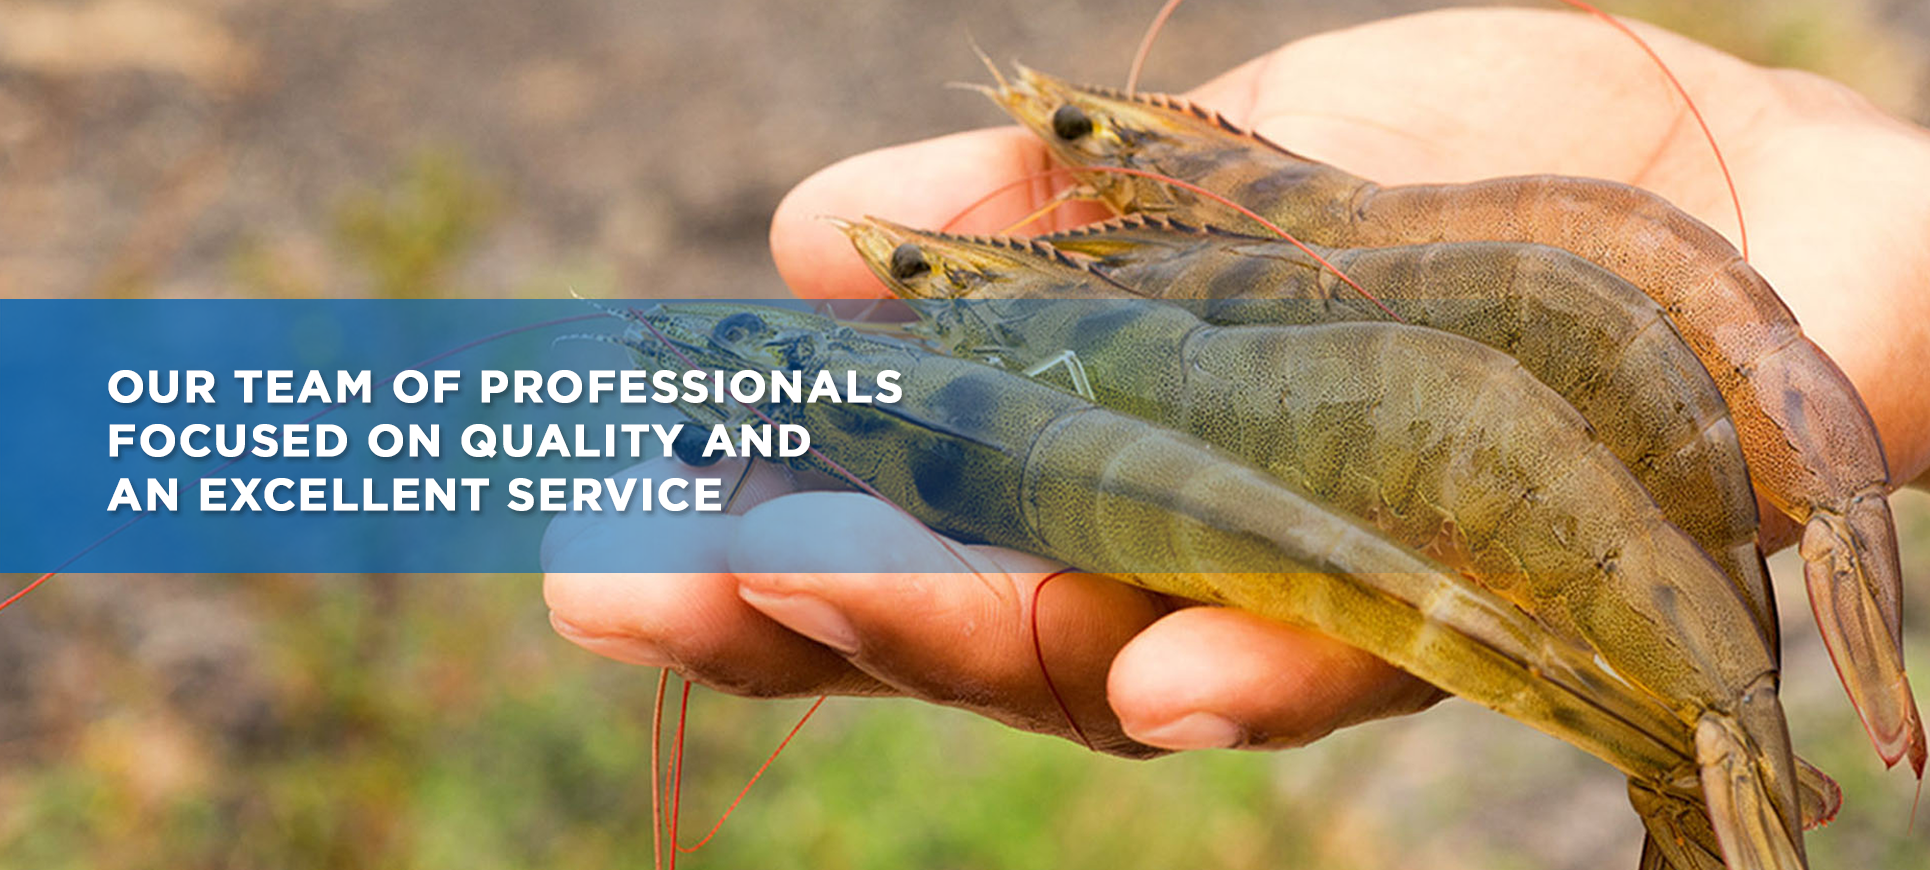
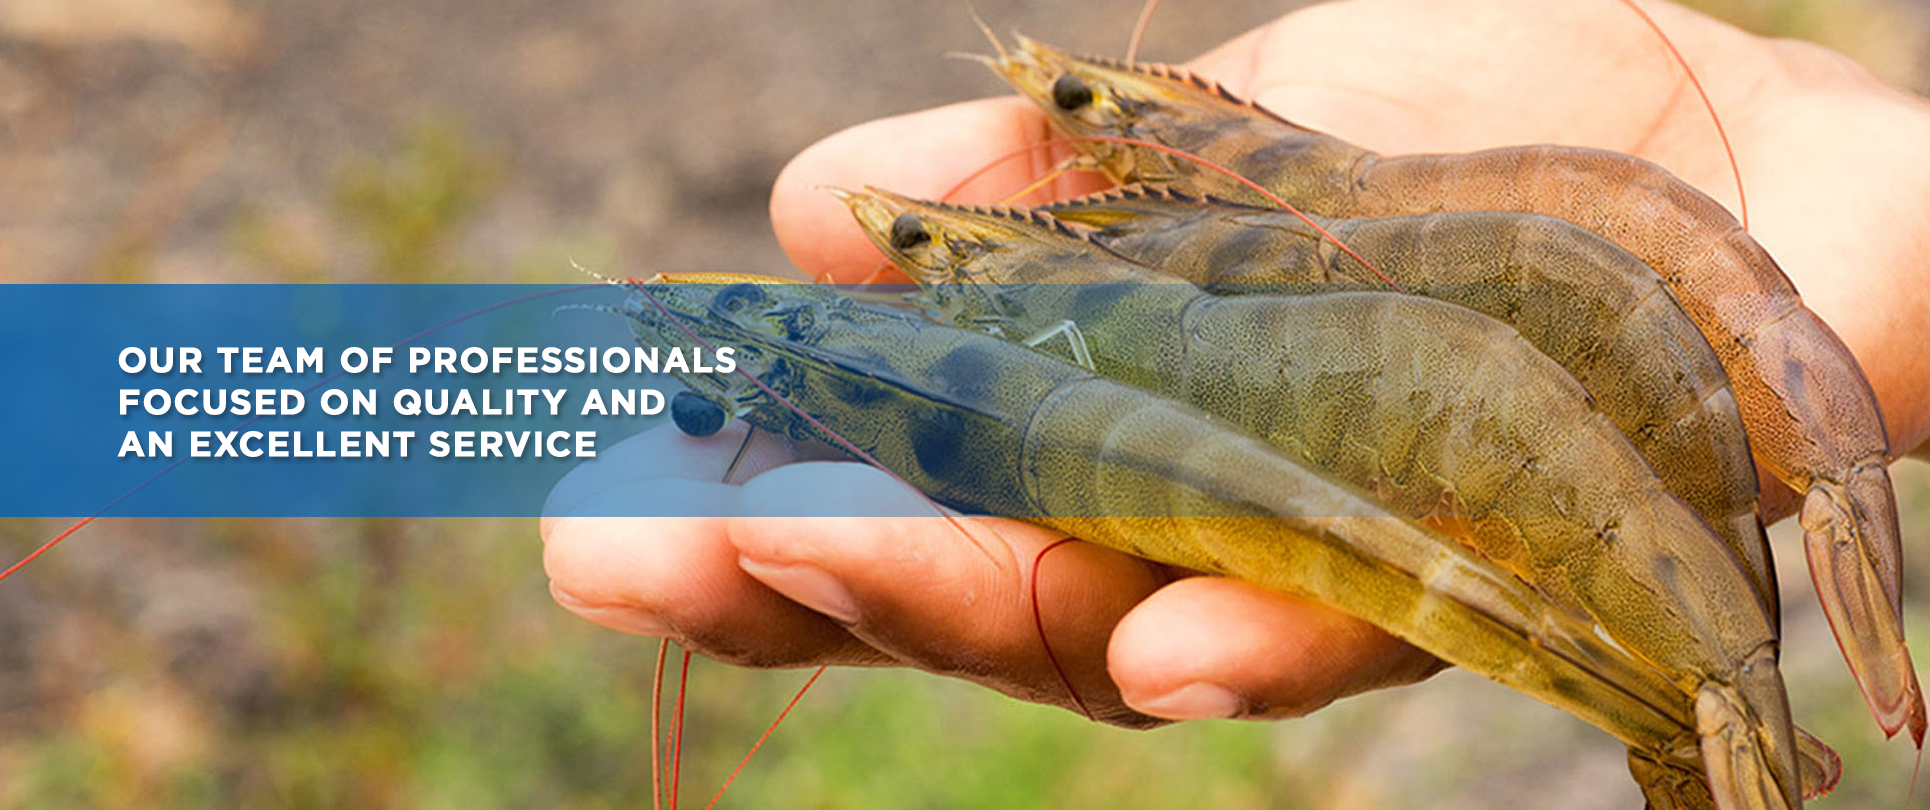
cambios

diff --git a/Camaron/templates/acerca.html b/Camaron/templates/acerca.html
@@ -66,11 +66,11 @@
         Franja no se necesita aca -->
     </div>
     <button class="carousel-control-prev" type="button" data-bs-target="#carouselExampleInterval" data-bs-slide="prev">
-        <span class="carousel-control-prev-icon" aria-hidden="true"><-</span>
+        <span class="carousel-control-prev-icon" aria-hidden="true"><img src="{% static 'rsc\img\ICONOS ALIMESA-24.png' %}"></span>
         <span class="visually-hidden">Previous</span>
     </button>
     <button class="carousel-control-next" type="button" data-bs-target="#carouselExampleInterval" data-bs-slide="next">
-        <span class="carousel-control-next-icon" aria-hidden="true">-></span>
+        <span class="carousel-control-next-icon" aria-hidden="true"><img src="{% static 'rsc\img\ICONOS ALIMESA-24.png' %}"></span>
         <span class="visually-hidden">Next</span>
     </button>
 </div>
@@ -86,6 +86,7 @@
         <div class="CartaIconoCdV">
             <div class="IconoCartaCdV">
                 <img src="{% static 'rsc\img\harvest.png' %}">
+                <img id="flecha" src="{% static 'rsc\img\FLECHA_CADENA_DE_VALOR.png' %}">         
             </div>
             <div class="TxtCartaCdV">
                 <p>Cosecha/Pesca</p>
@@ -94,6 +95,7 @@
         <div class="CartaIconoCdV">
             <div class="IconoCartaCdV">
                 <img src="{% static 'rsc\img\TruckIco.png' %}">
+                <img id="flecha" src="{% static 'rsc\img\FLECHA_CADENA_DE_VALOR.png' %}">
             </div>
             <div class="TxtCartaCdV">
                 <p>Logística</p>
@@ -102,6 +104,7 @@
         <div class="CartaIconoCdV">
             <div class="IconoCartaCdV">
                 <img src="{% static 'rsc\img\quality.png' %}">
+                <img id="flecha" src="{% static 'rsc\img\FLECHA_CADENA_DE_VALOR.png' %}">
             </div>
             <div class="TxtCartaCdV">
                 <p>Recepción y<br>control de calidad</p>
@@ -110,6 +113,7 @@
         <div class="CartaIconoCdV">
             <div class="IconoCartaCdV">
                 <img src="{% static 'rsc\img\PlantaIco.png' %}">
+                <img id="flecha" src="{% static 'rsc\img\FLECHA_CADENA_DE_VALOR.png' %}">
             </div>
             <div class="TxtCartaCdV">
                 <p>Clasificación<br>y empaque</p>
@@ -118,6 +122,7 @@
         <div class="CartaIconoCdV">
             <div class="IconoCartaCdV">
                 <img src="{% static 'rsc\img\ContainerIco.png' %}">
+                <img id="flecha" src="{% static 'rsc\img\FLECHA_CADENA_DE_VALOR.png' %}">
             </div>
             <div class="TxtCartaCdV">
                 <p>Logística</p>
@@ -126,6 +131,7 @@
         <div class="CartaIconoCdV">
             <div class="IconoCartaCdV">
                 <img src="{% static 'rsc\img\BuqueIco.png' %}">
+                <img id="flecha" src="{% static 'rsc\img\FLECHA_CADENA_DE_VALOR.png' %}">
             </div>
             <div class="TxtCartaCdV">
                 <p>Exportación</p>
@@ -133,7 +139,7 @@
         </div>
         <div class="CartaIconoCdV">
             <div class="IconoCartaCdV">
-                <img src="{% static 'rsc\img\costumer.png' %}">
+                <img src="{% static 'rsc\img\costumer.png' %}">                
             </div>
             <div class="TxtCartaCdV">
                 <p>Destino</p>
@@ -152,19 +158,19 @@
                 <b>AMÉRICA</b>
             </div>
             <div class="paisesMercado" id="paises_America">
-                <b>TORONTO</b>
-                <b>CHICAGO</b>
-                <b>DULUTH</b>
-                <b>HOUSTON</b>
-                <b>LOS ÁNGELES</b>
-                <b>MIAMI</b>
-                <b>NEW YORK</b>
-                <b>NEW JERSEY</b>
-                <b>NORFOLK</b>
-                <b>NEWARK</b>
-                <b>OAKLAND</b>
-                <b>SAVANNAH</b>
-                <b>VERNON</b>
+                <p>TORONTO</p>
+                <p>CHICAGO</p>
+                <p>DULUTH</p>
+                <p>HOUSTON</p>
+                <p>LOS ÁNGELES</p>
+                <p>MIAMI</p>
+                <p>NEW YORK</p>
+                <p>NEW JERSEY</p>
+                <p>NORFOLK</p>
+                <p>NEWARK</p>
+                <p>OAKLAND</p>
+                <p>SAVANNAH</p>
+                <p>VERNON</p>
             </div>
         </div>
         <div class="cardMercado">
@@ -172,24 +178,24 @@
                 <b>EUROPA</b>
             </div>
             <div class="paisesMercado" id="paises_Europa">
-                <b>DURRES</b>
-                <b>ALGECIRAS</b>
-                <b>BILBAO</b>
-                <b>CANARIAS</b>
-                <b>LAS PALMAS</b>
-                <b>VALENCIA</b>
-                <b>VIGO</b>
-                <b>MARSEILLE</b>
-                <b>LE HAVRE</b>
-                <b>PIRAEUS</b>
-                <b>THESSALONIKI</b>
-                <b>GENOVA</b>
-                <b>VENEZIA</b>
-                <b>SALERNO</b>
-                <b>ODESSA</b>
-                <b>FELIXTOWE</b>
-                <b>LONDON</b>
-                <b>SOUTHAMPTON</b>
+                <p>DURRES</p>
+                <p>ALGECIRAS</p>
+                <p>BILBAO</p>
+                <p>CANARIAS</p>
+                <p>LAS PALMAS</p>
+                <p>VALENCIA</p>
+                <p>VIGO</p>
+                <p>MARSEILLE</p>
+                <p>LE HAVRE</p>
+                <p>PIRAEUS</p>
+                <p>THESSALONIKI</p>
+                <p>GENOVA</p>
+                <p>VENEZIA</p>
+                <p>SALERNO</p>
+                <p>ODESSA</p>
+                <p>FELIXTOWE</p>
+                <p>LONDON</p>
+                <p>SOUTHAMPTON</p>
             </div>
         </div>
         <div class="cardMercado">
@@ -197,19 +203,19 @@
                 <b>ÁSIA</b>
             </div>
             <div class="paisesMercado" id="paises_Asia">
-                <b>BUSAN</b>
-                <b>DALIAN</b>
-                <b>NINGBO</b>
-                <b>QINGDAO</b>
-                <b>SHANGHAI</b>
-                <b>TIANJING</b>
-                <b>XINGANG</b>
-                <b>YINGKOU</b>
-                <b>ZHANJIANG</b>
-                <b>BEIRUT</b>
-                <b>KAOHSIUNG</b>
-                <b>JEBEL</b>
-                <b>SHARJAH</b>
+                <p>BUSAN</p>
+                <p>DALIAN</p>
+                <p>NINGBO</p>
+                <p>QINGDAO</p>
+                <p>SHANGHAI</p>
+                <p>TIANJING</p>
+                <p>XINGANG</p>
+                <p>YINGKOU</p>
+                <p>ZHANJIANG</p>
+                <p>BEIRUT</p>
+                <p>KAOHSIUNG</p>
+                <p>JEBEL</p>
+                <p>SHARJAH</p>
             </div>
         </div>
         <div class="cardMercado">
@@ -217,8 +223,8 @@
                 <b>ÁFRICA</b>
             </div>
             <div class="paisesMercado" id="paises_Africa">
-                <b>PORT SAID</b>
-                <b>CAPETOWN</b>
+                <p>PORT SAID</p>
+                <p>CAPETOWN</p>
             </div>
         </div>
     </div>

diff --git a/Camaron/static/css/acerca.css b/Camaron/static/css/acerca.css
@@ -178,7 +178,7 @@ el carrousel y el navbar */
     padding: 0%;
     text-align: center;
     font-size: 1.5vw;
-    font-weight: 600;
+    font-weight: 400;
 }
 
 button.carousel-control-prev {
@@ -203,6 +203,12 @@ button>.carousel-control-prev-icon {
     position: relative;
     top: 24vh;
     left: 23vw;
+}
+
+button > .carousel-control-prev-icon img {
+    transform: rotate(180deg);
+    width: 2vw;
+    height: 2vw;
 }
 
 button>.carousel-control-prev-icon:active,
@@ -235,6 +241,11 @@ button>.carousel-control-next-icon {
     position: relative;
     top: 24vh;
     left: -23vw;
+}
+
+button > .carousel-control-next-icon img {
+    width: 2vw;
+    height: 2vw;
 }
 
 button>.carousel-control-next-icon:active,
@@ -289,6 +300,7 @@ button>.carousel-control-next-icon:hover {
     background: linear-gradient(180deg, rgba(0, 57, 132, 1) 0%, rgba(0, 79, 156, 1) 50%, rgba(0, 96, 180, 1) 100%);
 }
 
+
 .CartaIconoCdV {
     display: grid;
     grid-template-columns: 1fr;
@@ -319,7 +331,7 @@ button>.carousel-control-next-icon:hover {
 .TxtCartaCdV {
     grid-area: TxtCartaCdV;
     display: flex;
-    align-items: center;
+    align-items:flex-start;
     justify-content: center;
     height: 6.36vh;
     width: 11vw;

diff --git a/Camaron/static/css/principal.css b/Camaron/static/css/principal.css
@@ -49,14 +49,12 @@
 .linksCEI:hover {
   text-decoration: none;
   color: white;
-  transition: .1s;
-  transform: scale(1.05);
 }
 
 .fotosPrin {
   display: grid;
   grid-template-columns: repeat(2, 1fr);
-  grid-template-rows: 1fr;
+  grid-template-rows: 0.5fr;
   gap: 0px 0px;
   grid-template-areas:
     "camaron pescado";
@@ -74,6 +72,7 @@
   display: flex;
   justify-content: center;
   align-items: center;
+  margin-left: 20vw;
   height: 90vh;
 }
 
@@ -93,12 +92,13 @@
   display: flex;
   justify-content: center;
   align-items: center;
+  margin-right: 20vw;
   height: 90vh;
 }
 
 .pescado>a>img {
-  width: 20vw;
-  height: 35vh;
+  width: 21vw;
+  height: 38vh;
   object-fit: contain;
 }
 

diff --git a/Camaron/templates/top.html b/Camaron/templates/top.html
@@ -6,7 +6,7 @@
     <meta charset="UTF-8">
     <meta name="viewport" content="width=device-width, initial-scale=1.0">
     <meta http-equiv="X-UA-Compatible" content="ie=edge">
-    <title>ALIMESA</title>
+    <title>Alimesa</title>
     <link rel="shortcut icon" type="image/png" href="{% static 'rsc\img\logoAzul.ico' %}" />
     <link href="https://cdn.jsdelivr.net/npm/bootstrap@5.0.1/dist/css/bootstrap.min.css" rel="stylesheet"
         integrity="sha384-+0n0xVW2eSR5OomGNYDnhzAbDsOXxcvSN1TPprVMTNDbiYZCxYbOOl7+AMvyTG2x" crossorigin="anonymous">

diff --git a/Camaron/templates/principal.html b/Camaron/templates/principal.html
@@ -21,7 +21,7 @@
             <img id="tlf" src="{% static 'rsc\img\phone.png' %}">
             <a class="linksCEI" href='tel:59341622125'>(+593-4) 162 2125</a>
             <img id="mail" src="{% static 'rsc\img\mail.png' %}">
-            <a class="linksCEI" href="mailto:sales@alimesa.com.ec">SALES@ALIMESA.COM.EC</a>
+            <a class="linksCEI" href="mailto:sales@alimesa.com.ec">sales@alimesa.com.ec</a>
         </div>
         <div class="idioma">
             <a class="linksCEI" href="">EN</a>

diff --git a/Camaron/static/css/inicio.css b/Camaron/static/css/inicio.css
@@ -161,11 +161,13 @@ el carrousel y el navbar */
     border-radius: 50%;
 }
 
-#carouselExampleInterval>div.carousel-indicators>button.active {
-    width: 20px;
-    height: 20px;
+#carouselExampleInterval>div.carousel-indicators>button {
+    width: 10px;
+    height: 10px;
     border-radius: 50%;
 }
+
+
 
 .carousel-caption {
     background: var(--azul-nav);
